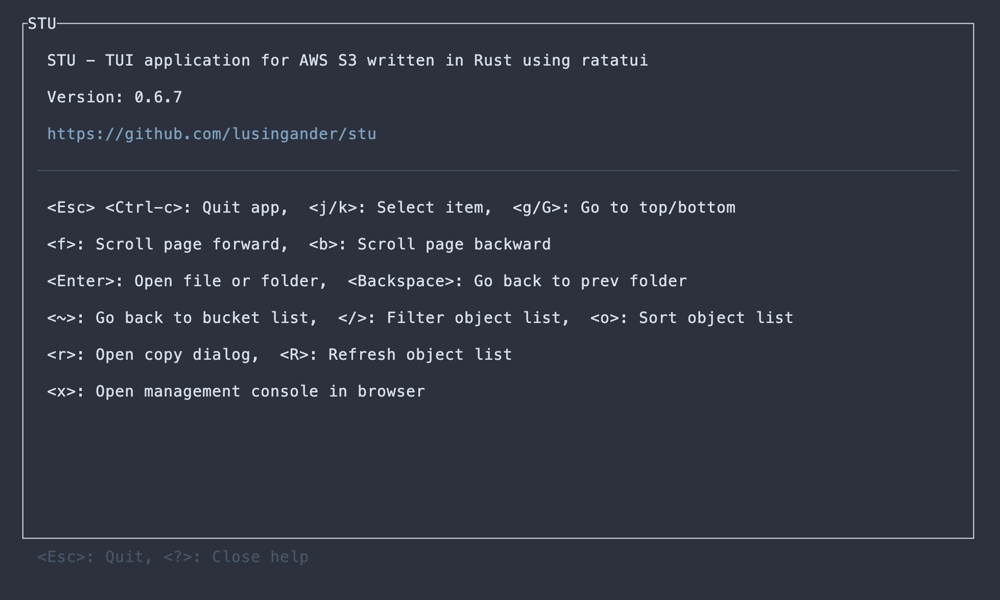
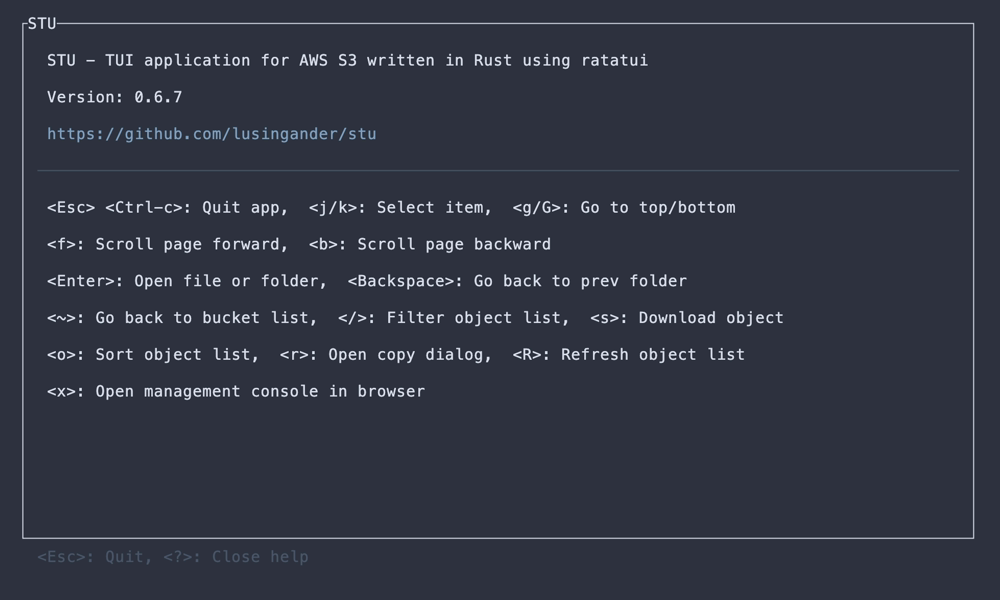
Update screenshots and README

Changed region(s): [[0.279, 0.57, 0.744, 0.6], [0.62, 0.51, 0.806, 0.54], [0.093, 0.57, 0.248, 0.6]]

diff --git a/README.md b/README.md
@@ -212,9 +212,11 @@ https://www.sublimetext.com/docs/syntax.html
 
 - Show list of objects in a hierarchy
   - filter/sort items
+- Download object
+  - Recursive download of selected directories
 - Copy resource name to clipboard
 
-<img src="./img/object-list-simple.png" width=400> <img src="./img/object-list-hierarchy.png" width=400> <img src="./img/object-list-many.png" width=400> <img src="./img/object-list-filter.png" width=400> <img src="./img/object-list-sort.png" width=400> <img src="./img/object-list-dir-copy.png" width=400> <img src="./img/object-list-file-copy.png" width=400>
+<img src="./img/object-list-simple.png" width=400> <img src="./img/object-list-hierarchy.png" width=400> <img src="./img/object-list-many.png" width=400> <img src="./img/object-list-filter.png" width=400> <img src="./img/object-list-sort.png" width=400> <img src="./img/object-list-dir-copy.png" width=400> <img src="./img/object-list-file-copy.png" width=400> <img src="./img/object-list-download-confirm.png" width=400>
 
 ### Object detail
 
@@ -235,7 +237,7 @@ https://www.sublimetext.com/docs/syntax.html
 - image preview (by [ratatui-image](https://github.com/benjajaja/ratatui-image))
   - It must be enabled in the [config](#config-file-format)
 - open with encoding
-  - Available encodings can be specified in the [config](#config-file-format).
+  - Available encodings can be specified in the [config](#config-file-format)
 
 <img src="./img/object-preview.png" width=400> <img src="./img/object-preview-image.png" width=400> <img src="./img/object-preview-encoding.png" width=400>
 
